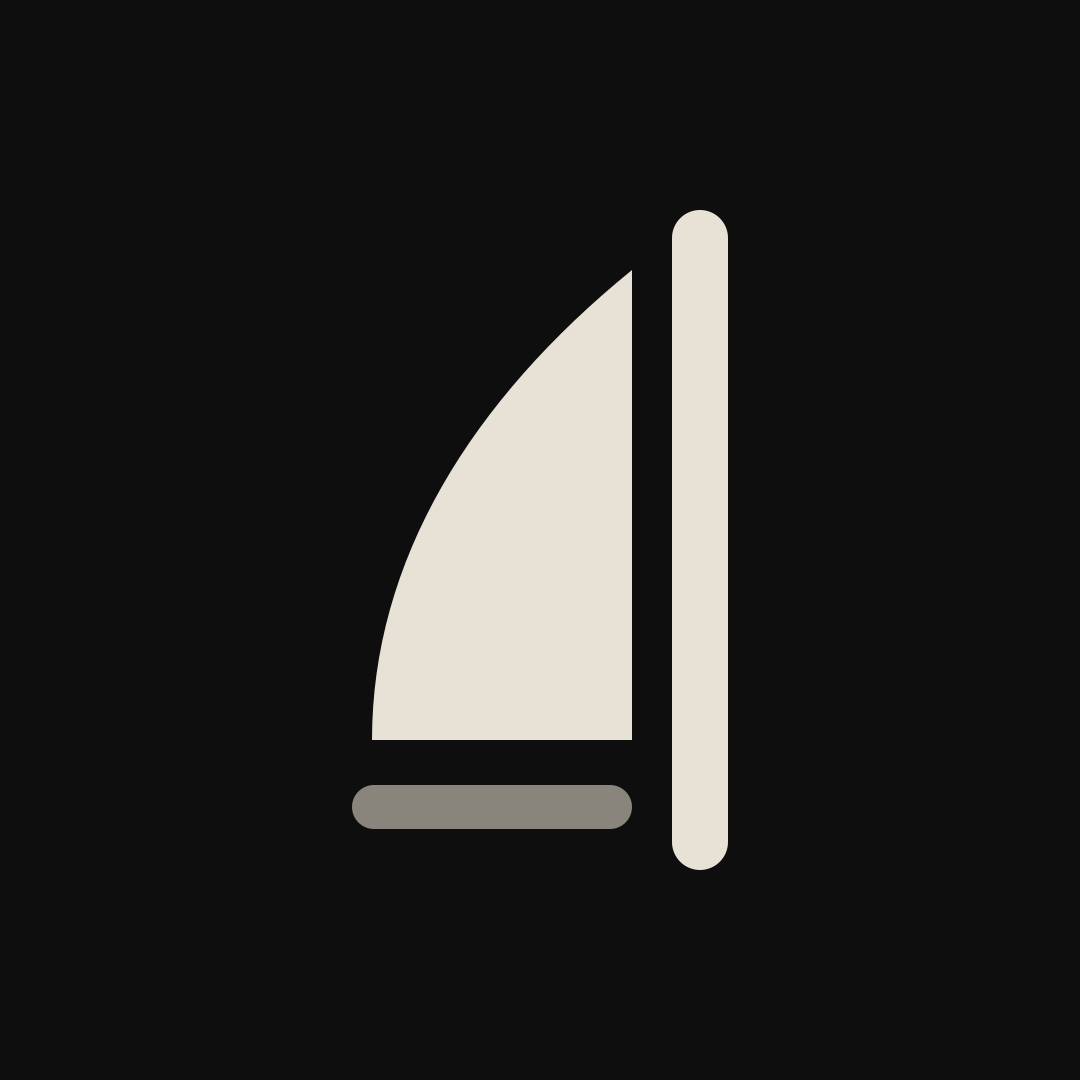
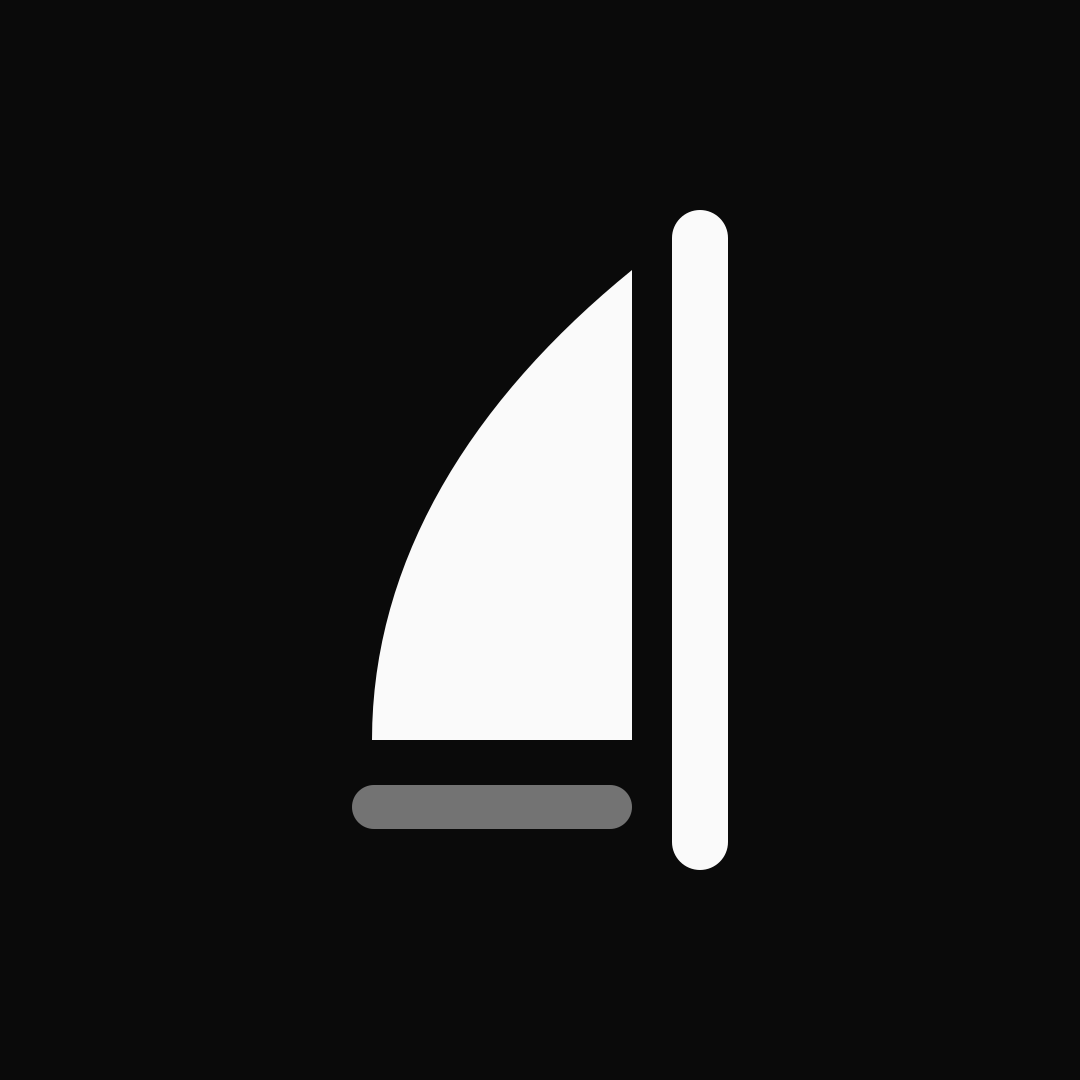
Redesign: monochrome colors + service cards

Changed region(s): [[0.3361, 0.1833, 0.6722, 0.825]]

diff --git a/client/index.html b/client/index.html
@@ -6,17 +6,17 @@
     <meta charset="UTF-8" />
     <meta name="viewport" content="width=device-width, initial-scale=1.0" />
     <title>Windward</title>
-    <meta name="description" content="Coming Soon" />
+    <meta name="description" content="The last best human software." />
 
     <meta property="og:title" content="Windward" />
-    <meta property="og:description" content="Coming Soon" />
+    <meta property="og:description" content="The last best human software." />
     <meta property="og:type" content="website" />
     <meta property="og:image" content="./assets/branding.png" />
     <meta property="og:image:alt" content="Windward" />
 
     <meta name="twitter:card" content="summary" />
     <meta name="twitter:title" content="Windward" />
-    <meta name="twitter:description" content="Coming Soon" />
+    <meta name="twitter:description" content="The last best human software." />
     <meta name="twitter:image" content="./assets/branding.png" />
     <meta name="twitter:image:alt" content="Windward" />
 
@@ -26,7 +26,7 @@
     <link rel="preconnect" href="https://fonts.googleapis.com" />
     <link rel="preconnect" href="https://fonts.gstatic.com" crossorigin />
 
-    <link href="https://fonts.googleapis.com/css2?family=Cal+Sans&family=Inter:wght@400&display=swap" rel="stylesheet" />
+    <link href="https://fonts.googleapis.com/css2?family=Cal+Sans&family=Inter:wght@400;500&display=swap" rel="stylesheet" />
 
   </head>
 

diff --git a/client/src/App.tsx b/client/src/App.tsx
@@ -1,18 +1,49 @@
 import { Logo } from "./Logo";
+import { ServiceCard } from "./ServiceCard";
+
+const services = [
+
+  {
+
+    title: "OVERTURE",
+    description: "A fast, efficient and modern music app.",
+    href: "https://overture.windward.sh",
+
+  },
+
+  {
+
+    title: "Streamly",
+    description: "Stream movies, shows, and live TV.",
+    href: "https://streamly.windward.sh",
+
+  },
+
+];
 
 export function App() {
 
   return (
 
-    <main className="grid min-h-screen place-items-center bg-[#0e0e0e] px-6 font-sans text-[#e8e2d6]">
+    <main className="grid min-h-screen place-items-center bg-[#0a0a0a] px-6 py-16 font-sans text-[#fafafa]">
 
-      <div className="flex flex-col items-center text-center">
+      <div className="flex w-full max-w-md flex-col items-center text-center">
 
         <Logo className="mb-8 h-20 sm:h-24" />
 
         <h1 className="text-6xl tracking-tight sm:text-7xl">Windward</h1>
 
-        <p className="mt-3 font-body text-lg text-[#8a857c]">Coming Soon</p>
+        <p className="mt-3 font-body text-lg text-[#737373]">The last best human software.</p>
+
+        <nav className="mt-12 flex w-full flex-col gap-3">
+
+          {services.map((service) => (
+
+            <ServiceCard key={service.title} {...service} />
+
+          ))}
+
+        </nav>
 
       </div>
 

diff --git a/client/src/ServiceCard.tsx b/client/src/ServiceCard.tsx
@@ -1,0 +1,34 @@
+interface ServiceCardProps {
+
+  title: string;
+  description: string;
+  href: string;
+
+}
+
+export function ServiceCard({ title, description, href }: ServiceCardProps) {
+
+  return (
+
+    <a href={href} className="group flex items-center justify-between gap-6 rounded-xl bg-[#161616] px-6 py-5 text-left" >
+
+      <div>
+
+        <h2 className="font-body text-lg font-medium tracking-tight text-[#fafafa]">{title}</h2>
+
+        <p className="mt-1 font-body text-sm text-[#737373]">{description}</p>
+
+      </div>
+
+      <svg className="size-5 shrink-0 text-[#737373] transition-transform duration-200 ease-out group-hover:translate-x-1" viewBox="0 0 24 24" fill="none" stroke="currentColor" strokeWidth="2" strokeLinecap="round" strokeLinejoin="round" aria-hidden="true" >
+
+        <path d="M5 12h14" />
+        <path d="m13 6 6 6-6 6" />
+
+      </svg>
+
+    </a>
+
+  );
+
+}

diff --git a/client/src/Logo.tsx b/client/src/Logo.tsx
@@ -11,7 +11,7 @@ export function Logo({ className }: LogoProps) {
     <svg className={className} viewBox="352 210 376 660" fill="currentColor" aria-hidden="true">
 
       <path d="M632 270 L632 740 L372 740 C372 560 472 400 632 270 Z" />
-      <rect x="352" y="785" width="280" height="44" rx="22" fill="#8a857c" />
+      <rect x="352" y="785" width="280" height="44" rx="22" fill="#737373" />
       <rect className="motion-safe:animate-blink" x="672" y="210" width="56" height="660" rx="28" />
 
     </svg>
